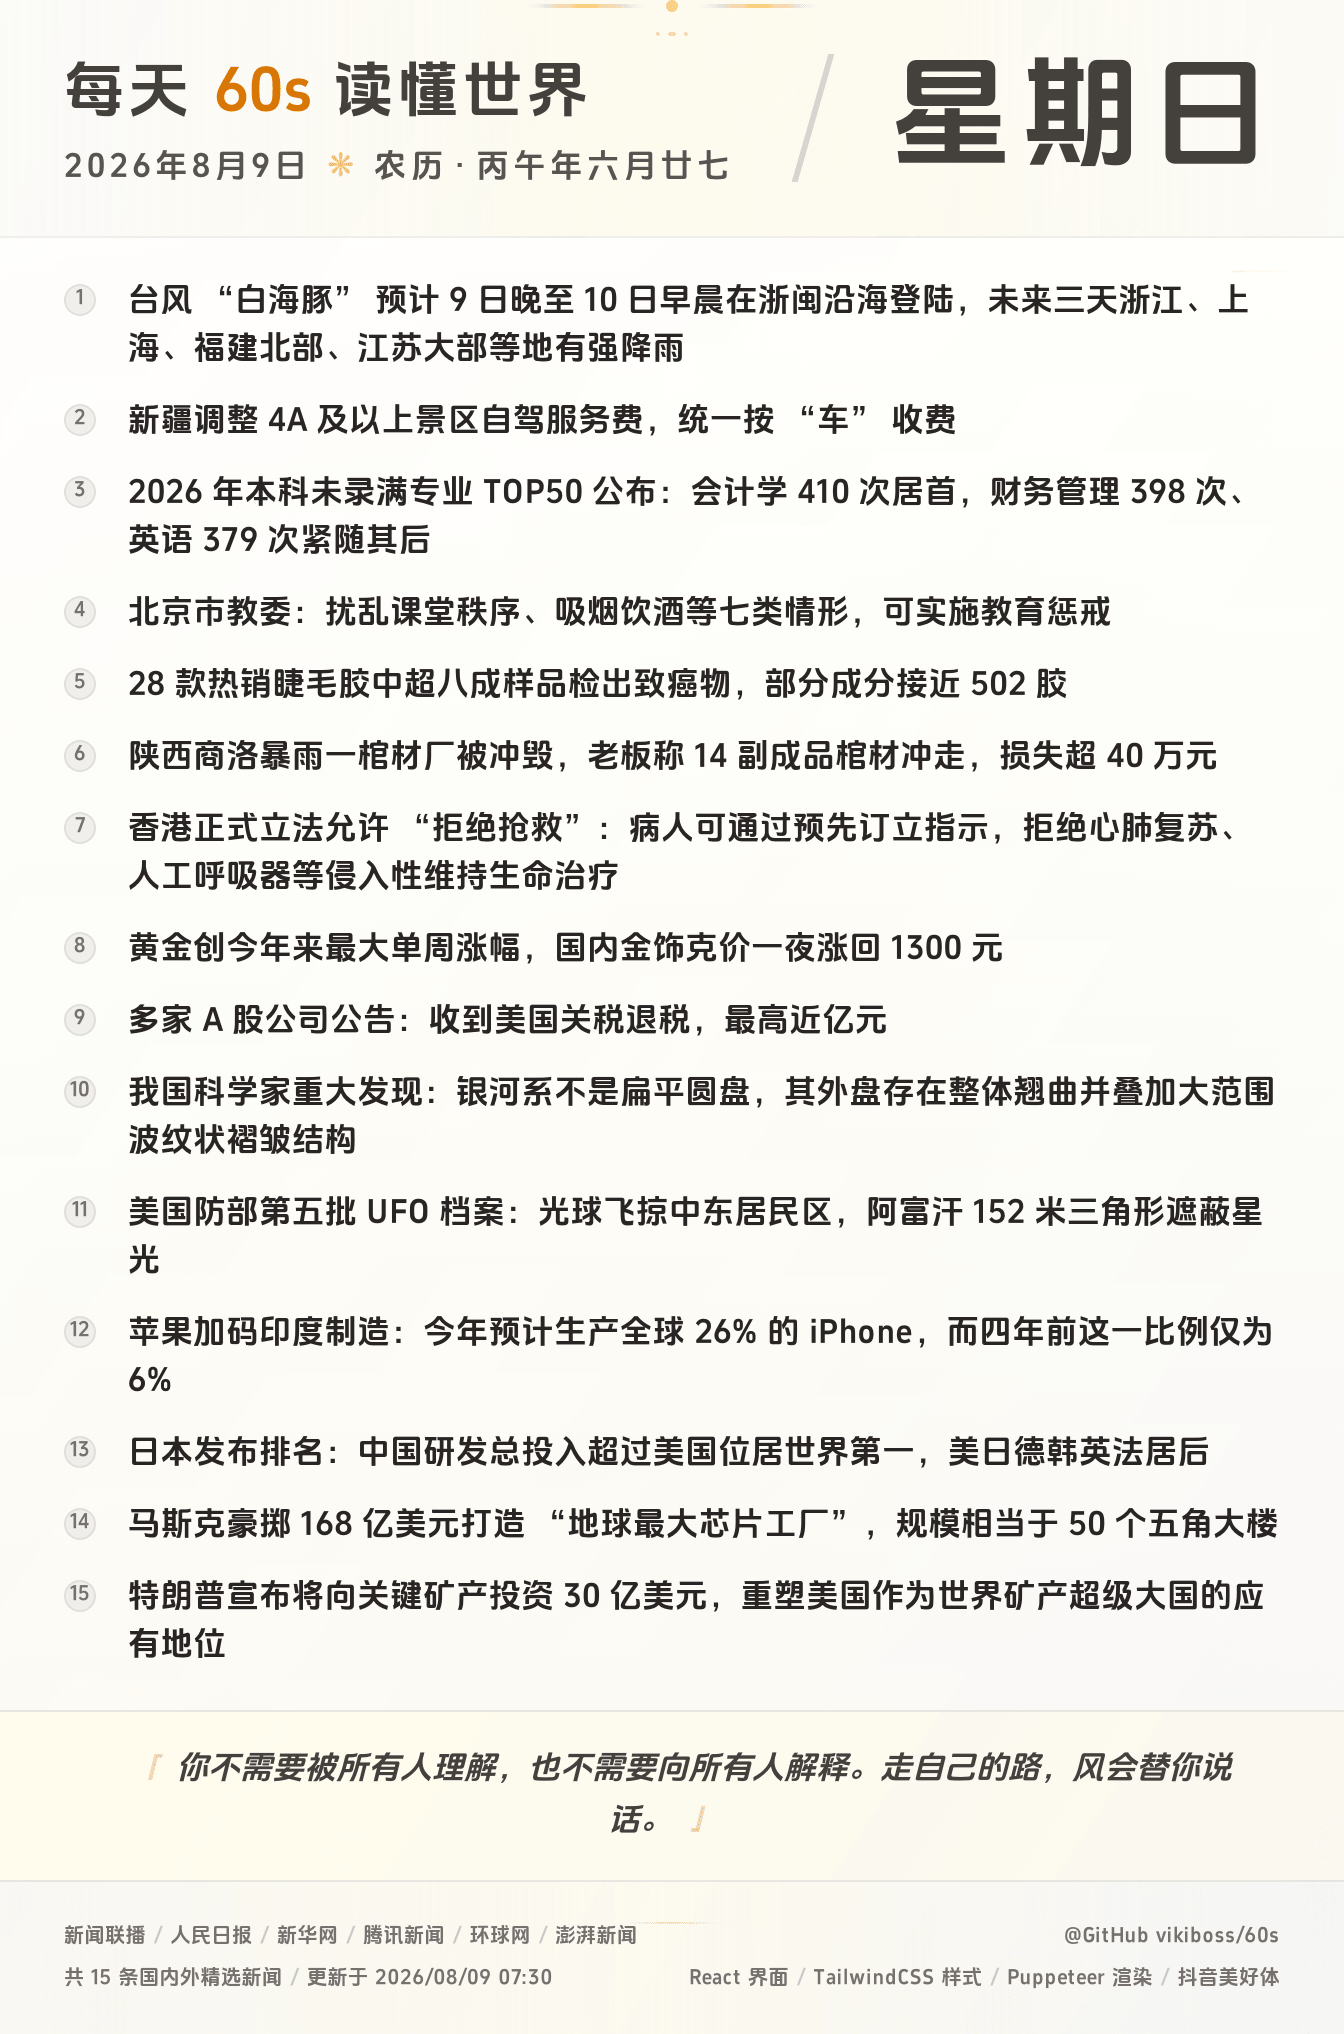
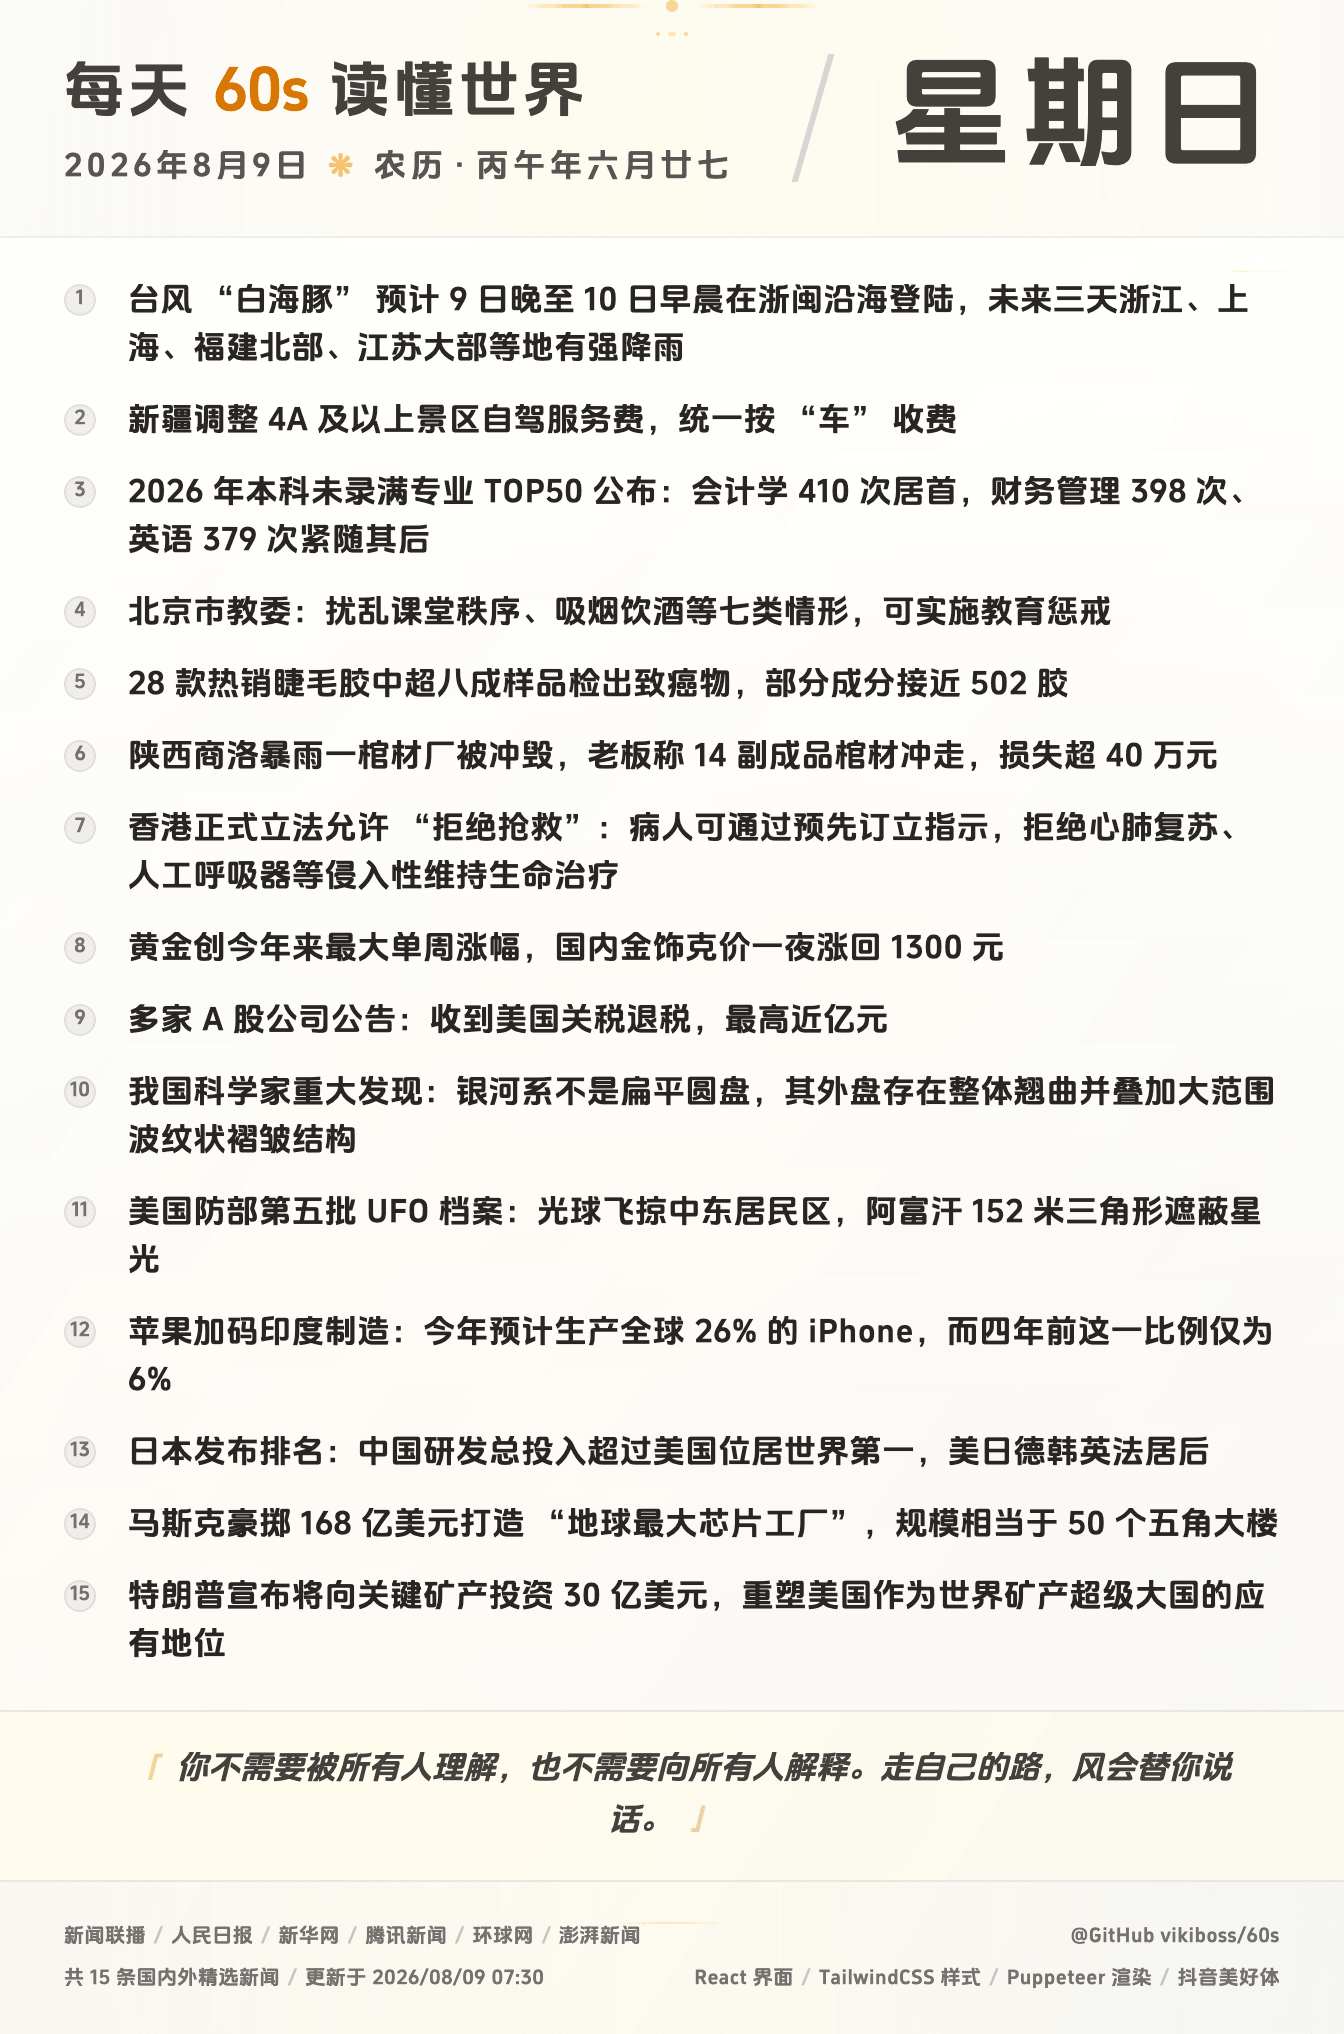
chore: save

diff --git a/src/services/template.html b/src/services/template.html
@@ -1,8 +1,8 @@
 <html lang="zh-CN">
   <head>
     <meta charset="UTF-8" />
-    <link rel="stylesheet" href="https://unpkg.com/@unocss/reset@66.5.4/tailwind.css" />
-    <script src="https://unpkg.com/@unocss/runtime@66.5.4/uno.global.js"></script>
+    <link rel="stylesheet" href="https://cdn.jsdelivr.net/npm/@unocss/reset@66.7.5/tailwind.css" />
+    <script src="https://cdn.jsdelivr.net/npm/@unocss/runtime@66.7.5/uno.global.js"></script>
     <style>
       __FONT_FACE__
       body {
